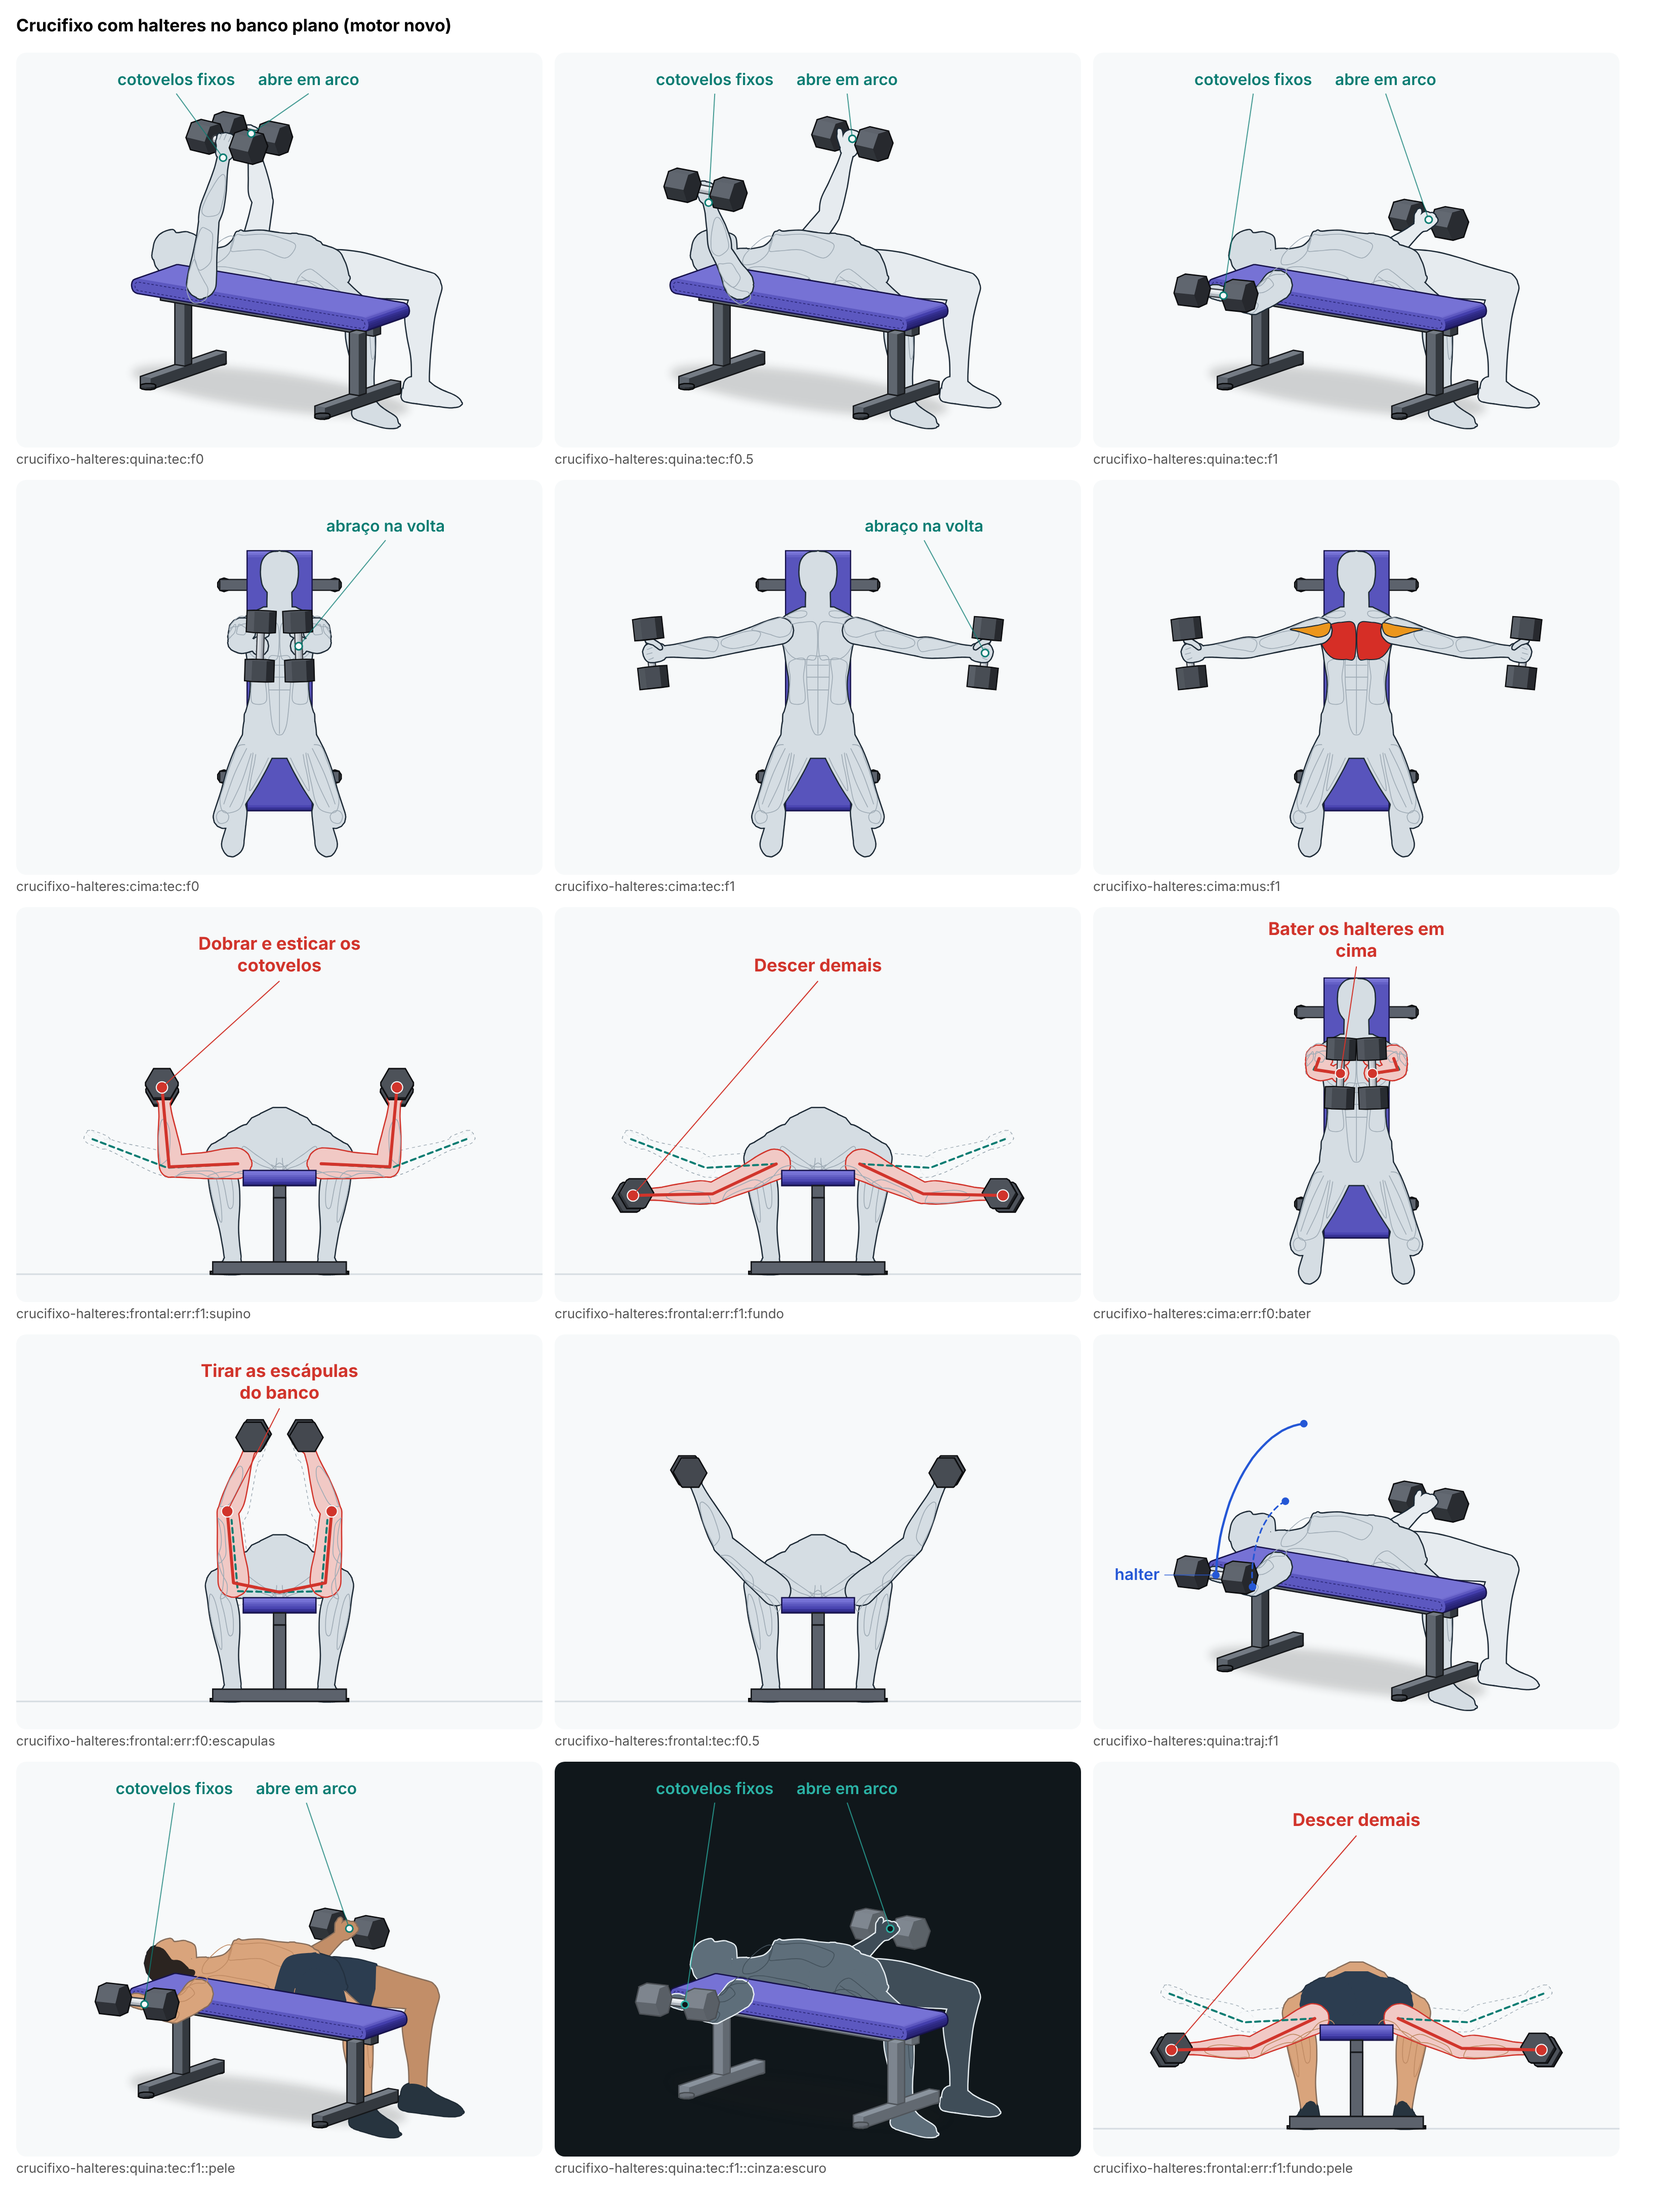
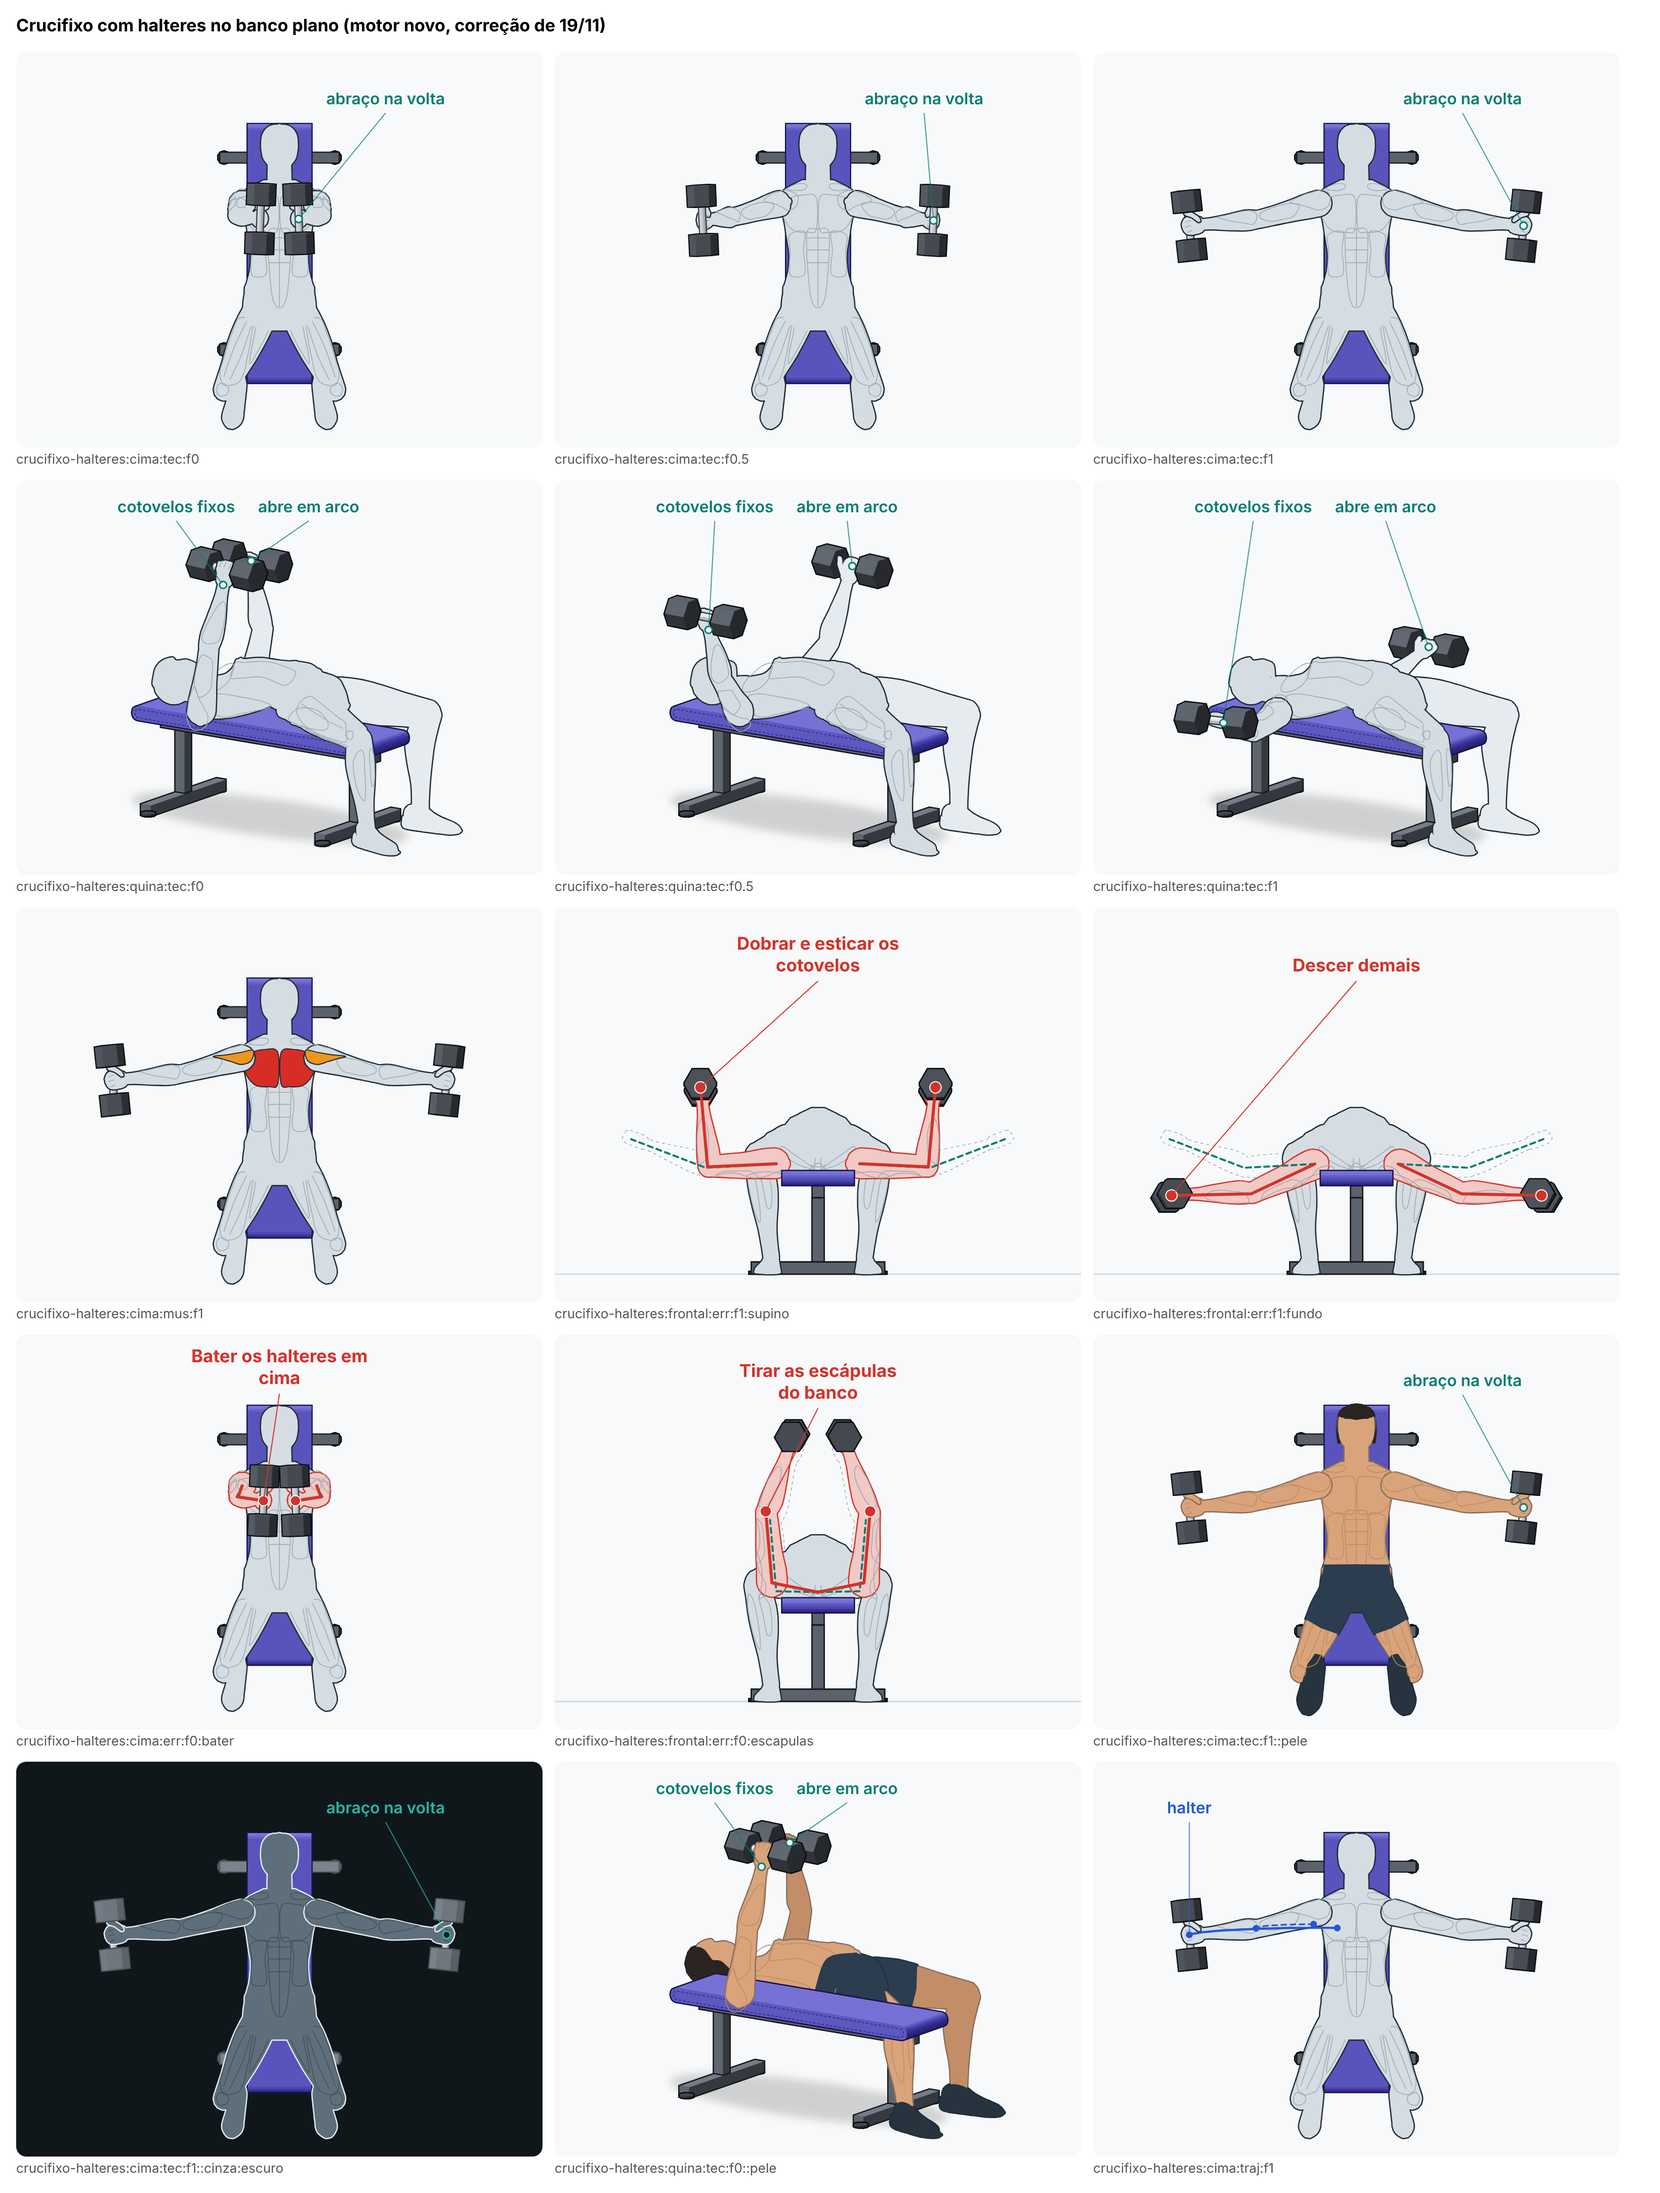
Corrige a perna de perto atrás do pé do banco no crucifixo com halteres
De três quartos, a canela e o pé de perto ficavam atrás do pé do banco,
27 cm mais perto de quem olha; de frente, as duas pernas atrás das
travessas, e o estofado por cima das costas. A peça comum bancoReto ganha
a opção atras, desligada por padrão; aqui o estofado vai 9 cm e a
estrutura 70 cm para trás na pintura. Regra nova
crucifixo-halteres-banco-pintado-no-lugar.

Claude-Session: https://claude.ai/code/session_01YRzts8DBGbsca9onebcMt1

diff --git a/src/engine/novo/regras/crucifixos.ts b/src/engine/novo/regras/crucifixos.ts
@@ -5,9 +5,13 @@
 import { pontosDoBoneco } from '../boneco';
 import { f1, faixa } from '../conferir-util';
 import type { Regra } from '../conferir-util';
+import { crucifixoHalteres } from '../exercicios/crucifixo-halteres';
 import type { Quadro } from '../movimento';
 import { obj } from '../tabelas';
 import { dist, dot, norm, sub } from '../vec';
+import type { V3 } from '../vec';
+import { regraDePintura } from './ordem-de-pintura';
+import type { ParteDaPeca } from './ordem-de-pintura';
 
 const ultimo = <T>(q: T[]) => q[q.length - 1]!;
 
@@ -17,7 +21,45 @@ function bancoRetoDo(q: Quadro): { x0: number; z0: number } | undefined {
   return p && p.t === 'bancoReto' ? { x0: p.x0, z0: p.z0 } : undefined;
 }
 
+/**
+ * As partes do banco reto, na ordem em que o desenho realista as pinta (bancoReto, em ../equipamento.ts): o estofado, a
+ * viga embaixo dele e, em cada ponta (a de −z e a de +z), o pé (a coluna), a travessa do chão e as duas sapatas.
+ */
+export function partesDoBancoReto(x0: number, z0: number): ParteDaPeca[] {
+  const g = (id: string) => obj('bancoReto', id);
+  const comp = g('comp'),
+    est = g('estofado'),
+    tubo = g('tubo'),
+    baseL = g('baseLarg') / 2,
+    yBaixo = g('altura') - est;
+  const E: [V3, V3, V3] = [
+    [1, 0, 0],
+    [0, 1, 0],
+    [0, 0, 1],
+  ];
+  const caixa = (o: V3, meias: V3, i: number): ParteDaPeca => ({ eixo: [], raio: 0, caixa: { o, e: E, meias }, itens: [i] });
+  const out = [caixa([x0, yBaixo + est / 2, z0], [g('larg') / 2, est / 2, comp / 2], 0), caixa([x0, yBaixo - tubo / 2, z0], [tubo / 2, tubo / 2, comp / 2 - 6], 1)];
+  [-1, 1].forEach((s, k) => {
+    const z = z0 + s * (comp / 2 - 16),
+      i = 2 + 4 * k;
+    out.push(caixa([x0, yBaixo / 2, z], [tubo / 2, yBaixo / 2 - tubo, tubo / 2], i), caixa([x0, tubo / 2, z], [baseL, tubo / 2, tubo / 2], i + 1));
+    [-1, 1].forEach((sx, j) => out.push(caixa([x0 + sx * (baseL - 2), 0.6, z], [3.2, 0.6, 3.2], i + 2 + j)));
+  });
+  return out;
+}
+
 export const REGRAS_CRUCIFIXOS: Record<string, Regra> = {
+  // O banco reto (o estofado, a viga, os pés, as travessas e as sapatas) contra o corpo, nos dois lados, em cada vista do
+  // guia (acréscimo de 19/11, auditoria das fases A e B): de três quartos, a perna de perto, que passa na frente do pé do
+  // banco (27 cm mais perto de quem olha), era pintada atrás dele.
+  'crucifixo-halteres-banco-pintado-no-lugar': regraDePintura({
+    exercicio: () => crucifixoHalteres,
+    nome: 'o banco',
+    peca: (q) => {
+      const p = q.pecas?.find((x) => x.t === 'bancoReto');
+      return p && p.t === 'bancoReto' ? [{ peca: p, partes: partesDoBancoReto(p.x0, p.z0) }] : [];
+    },
+  }),
   'crucifixo-cotovelo-fixo': (q) => {
     const c = q.flatMap((x) => [x.esq.lado.R.ang.cotovelo, x.esq.lado.L.ang.cotovelo]);
     const [a, b] = faixa(c);

diff --git a/src/engine/novo/equipamento.ts b/src/engine/novo/equipamento.ts
@@ -44,13 +44,16 @@ function bancoReto(C: CenaRealista, M: typeof MAT, p: Extract<Peca, { t: 'bancoR
     tubo = g('tubo'),
     baseL = g('baseLarg') / 2;
   const yBaixo = alt - est;
-  C.estofado([p.x0, yBaixo, p.z0], [0, 0, 1], Y, [1, 0, 0], comp, est, g('larg'));
-  C.tubo([p.x0, yBaixo - tubo / 2, p.z0 - comp / 2 + 6], [p.x0, yBaixo - tubo / 2, p.z0 + comp / 2 - 6], tubo, tubo, M.metal);
+  // `atras`: o estofado e a estrutura vão para trás na pintura (no gerador, dz positivo = mais longe)
+  const oE = p.atras ? { dz: p.atras.estofado } : undefined,
+    oS = p.atras ? { dz: p.atras.estrutura } : undefined;
+  C.estofado([p.x0, yBaixo, p.z0], [0, 0, 1], Y, [1, 0, 0], comp, est, g('larg'), undefined, oE);
+  C.tubo([p.x0, yBaixo - tubo / 2, p.z0 - comp / 2 + 6], [p.x0, yBaixo - tubo / 2, p.z0 + comp / 2 - 6], tubo, tubo, M.metal, oS);
   for (const s of [-1, 1]) {
     const z = p.z0 + s * (comp / 2 - 16);
-    C.tubo([p.x0, tubo, z], [p.x0, yBaixo - tubo, z], tubo, tubo, M.metal);
-    C.tubo([p.x0 - baseL, tubo / 2, z], [p.x0 + baseL, tubo / 2, z], tubo, tubo, M.metal);
-    for (const sx of [-1, 1]) C.cilindro([p.x0 + sx * (baseL - 2), 0, z], [p.x0 + sx * (baseL - 2), 1.2, z], 3.2, M.borracha, { lados: 10 });
+    C.tubo([p.x0, tubo, z], [p.x0, yBaixo - tubo, z], tubo, tubo, M.metal, oS);
+    C.tubo([p.x0 - baseL, tubo / 2, z], [p.x0 + baseL, tubo / 2, z], tubo, tubo, M.metal, oS);
+    for (const sx of [-1, 1]) C.cilindro([p.x0 + sx * (baseL - 2), 0, z], [p.x0 + sx * (baseL - 2), 1.2, z], 3.2, M.borracha, { lados: 10, ...oS });
   }
   if (comSombra) C.sombra(p.x0, p.z0, baseL, comp / 2 + 8, 0.18);
 }

diff --git a/src/engine/novo/exercicios/crucifixo-halteres.ts b/src/engine/novo/exercicios/crucifixo-halteres.ts
@@ -63,8 +63,19 @@ function deitar(corpo: Corpo): Deitado {
   // o banco é posto pela cabeça, como no supino reto
   const zTopoDaCabeca = noRef(t.cabeca, [0, m('cabeca.tragionAoTopo'), 0])[2];
   const zBanco = zTopoDaCabeca - f('cabeca.folgaNoBanco') + obj('bancoReto', 'comp') / 2;
-  return { t, pernas, prims: [chao(-110, 110, -90, 130), ...bancoReto(0, zBanco)], pecas: [{ t: 'bancoReto', x0: 0, z0: zBanco }] };
+  return { t, pernas, prims: [chao(-110, 110, -90, 130), ...bancoReto(0, zBanco)], pecas: [{ t: 'bancoReto', x0: 0, z0: zBanco, atras: BANCO_ATRAS }] };
 }
+/**
+ * O banco vai para trás na pintura (cm de profundidade). Os pés passam além da ponta do banco, na frente do pé e da
+ * travessa dele, e a perna de perto é pintada no item do corpo (pela média do tronco, que fica em cima do meio do banco):
+ * de três quartos ela ficava atrás do pé do banco, 27 cm mais perto de quem olha; de frente (nos erros), as duas pernas
+ * ficavam atrás das travessas e das sapatas. A estrutura vai para trás de tudo o que se cruza com ela (de frente, a
+ * travessa de perto era pintada 61,3 cm à frente das pernas; 70 deixa 8,5 de folga). O estofado vai só o bastante para
+ * ficar atrás do corpo deitado nele de três quartos (era pintado 6,4 cm à frente), mas continua à frente do braço de
+ * longe, que passa atrás dele (pintado 5 cm atrás do corpo): com 9 cm, 2,5 de folga para os dois lados. A regra
+ * crucifixo-halteres-banco-pintado-no-lugar mede, nos dois lados e nas três vistas.
+ */
+const BANCO_ATRAS = { estofado: 9, estrutura: 70 };
 
 const { quadro } = crucifixoDeitado(F, deitar);
 

diff --git a/src/engine/novo/pecas.ts b/src/engine/novo/pecas.ts
@@ -121,7 +121,20 @@ export type Peca =
    * `pontaNoQuadro`: quando só a ponta do banco importa (o pé de trás do búlgaro apoia nela), quantos centímetros
    * dessa ponta (a de +z) o enquadramento precisa mostrar; o resto do banco pode ser cortado pela borda do quadro.
    */
-  | { t: 'bancoReto'; x0: number; z0: number; pontaNoQuadro?: number }
+  | {
+      t: 'bancoReto';
+      x0: number;
+      z0: number;
+      pontaNoQuadro?: number;
+      /**
+       * `atras` (acréscimo de 19/11, desligado por padrão): quanto o estofado e a estrutura (a viga, os pés, as travessas
+       * e as sapatas) vão para trás na pintura, em cm de profundidade. Cada parte é pintada pela profundidade do meio
+       * dela; com o corpo deitado em cima e as pernas passando na frente do pé do banco, a perna de perto (pintada no
+       * item do corpo, pela média do tronco) ficava atrás do pé e da travessa (o crucifixo com halteres, na auditoria das
+       * fases A e B). Quem usa mede a ordem com uma regra de pintura.
+       */
+      atras?: { estofado: number; estrutura: number };
+    }
   /**
    * `cenario`: a coluna só serve de apoio para a mão (não é o equipamento do exercício). Ela é pintada atrás do corpo,
    * não entra no enquadramento (o quadro a corta em cima) e não aparece de perfil, onde ficaria atrás do tronco.

diff --git a/docs/revisoes/animacao-nova/lote-A1/crucifixo-halteres.md b/docs/revisoes/animacao-nova/lote-A1/crucifixo-halteres.md
@@ -80,3 +80,25 @@ Nenhum erro ficou de fora: os quatro têm consequência visível.
 - **Erro "tirar as escápulas":** a diferença é pequena (o ombro sobe 3,5 cm), como no erro parecido do supino reto aprovado; quem mostra é a linha vermelha do ombro, mais que o corpo. O nome aponta para o cotovelo (no ombro, o quadro abria até 53%).
 - **Erro "bater os halteres":** de cima, o fio do título passa por cima da cabeça.
 - **Supinação de 72°:** é o que a pegada com as palmas uma para a outra pede com o cotovelo para fora; fica abaixo da média da tabela (87,5°), mas é mais que nos supinos. Vale o olho de quem conhece o movimento.
+
+## Correção de 19/11 (auditoria)
+
+A auditoria das fases A e B (M1) achou que, de três quartos, a canela e o pé de perto apareciam atrás do pé (o poste e a travessa) do banco, embora estejam 27 cm mais perto de quem olha. **Causa:** a perna de perto é pintada no item do corpo, pela média do tronco, que fica em cima do meio do banco; o pé do banco, na ponta de perto, é pintado pela profundidade dele e passava à frente. Medindo, achei mais dois do mesmo tipo: de três quartos, o estofado era pintado 6,4 cm à frente do corpo deitado nele (cobria a borda de baixo das costas e o alto da coxa de perto); de frente (a vista dos erros), as duas pernas ficavam atrás das travessas e das sapatas, 61,5 cm na ordem errada.
+
+**O que mudou.**
+- A peça comum `bancoReto` ganhou a opção `atras` (desligada por padrão): quanto o estofado e a estrutura (a viga, os pés, as travessas e as sapatas) vão para trás na pintura. Só este exercício a liga: estofado 9 cm, estrutura 70 cm.
+- A regra nova `crucifixo-halteres-banco-pintado-no-lugar` mede cada parte do banco (o estofado, a viga, os dois pés, as duas travessas e as quatro sapatas, como caixas) contra cada parte do corpo, dos dois lados, nas três vistas do guia.
+
+**Antes → depois** (pior quadro, cm de folga de pintura; negativo = ordem errada):
+
+| vista | tronco | perna direita | perna esquerda | braço direito | braço esquerdo |
+|---|---|---|---|---|---|
+| três quartos | −6,5 → 2,5 (na frente) | −26,3 → 2,5 (na frente) | — | 11,9 → 20,9 (na frente) | 11,5 → 2,5 (atrás do estofado) |
+| de frente (erros) | — | −61,5 → 8,5 (na frente) | −61,5 → 8,5 (na frente) | — | — |
+| de cima | 10,7 → 19,7 | 10,7 → 19,7 | 10,7 → 19,7 | 49,9 → 58,9 | 49,9 → 58,9 |
+
+("—" = não se cruza com o banco na tela.) O estofado tem pouca margem de três quartos, 2,5 cm para cada lado: ele tem de ficar atrás do corpo deitado nele e na frente do braço de longe, que passa atrás dele, e o Boneco pinta o braço de longe só 5 cm atrás do corpo. A regra falha no estado antigo e passa no novo; a conferência automática dá 0 falha e os mesmos 2 avisos.
+
+Como a ordem de pintura é medida (a regra nova, com o núcleo em `src/engine/novo/regras/ordem-de-pintura.ts`): em cada vista do guia (as do exercício e as dos erros), a cada 3 quadros do movimento certo e em cada erro no começo, no meio e no fim, um raio sai de cada ponto do eixo da peça até quem olha e de cada ponto da pele virada para quem olha (a 85% do raio) até quem olha; se ele atravessa o corpo (os dois lados, cada grupo à parte), aquela parte do corpo tem de ser pintada depois do item que pinta a peça; se atravessa a peça, antes. A folga é a diferença de profundidade de pintura (cm; negativa = ordem errada). Contam só os cruzamentos de 4 pontos ou mais; a pele que fica dentro de outra parte do corpo ou dentro da própria peça não conta; quando a mesma parte esconde e é escondida pela mesma peça, vale o lado com mais pontos.
+
+**O que ainda não ficou bom.** O rótulo "cotovelos fixos" continua apontando para o punho (pequeno da auditoria, fora deste pedido).
